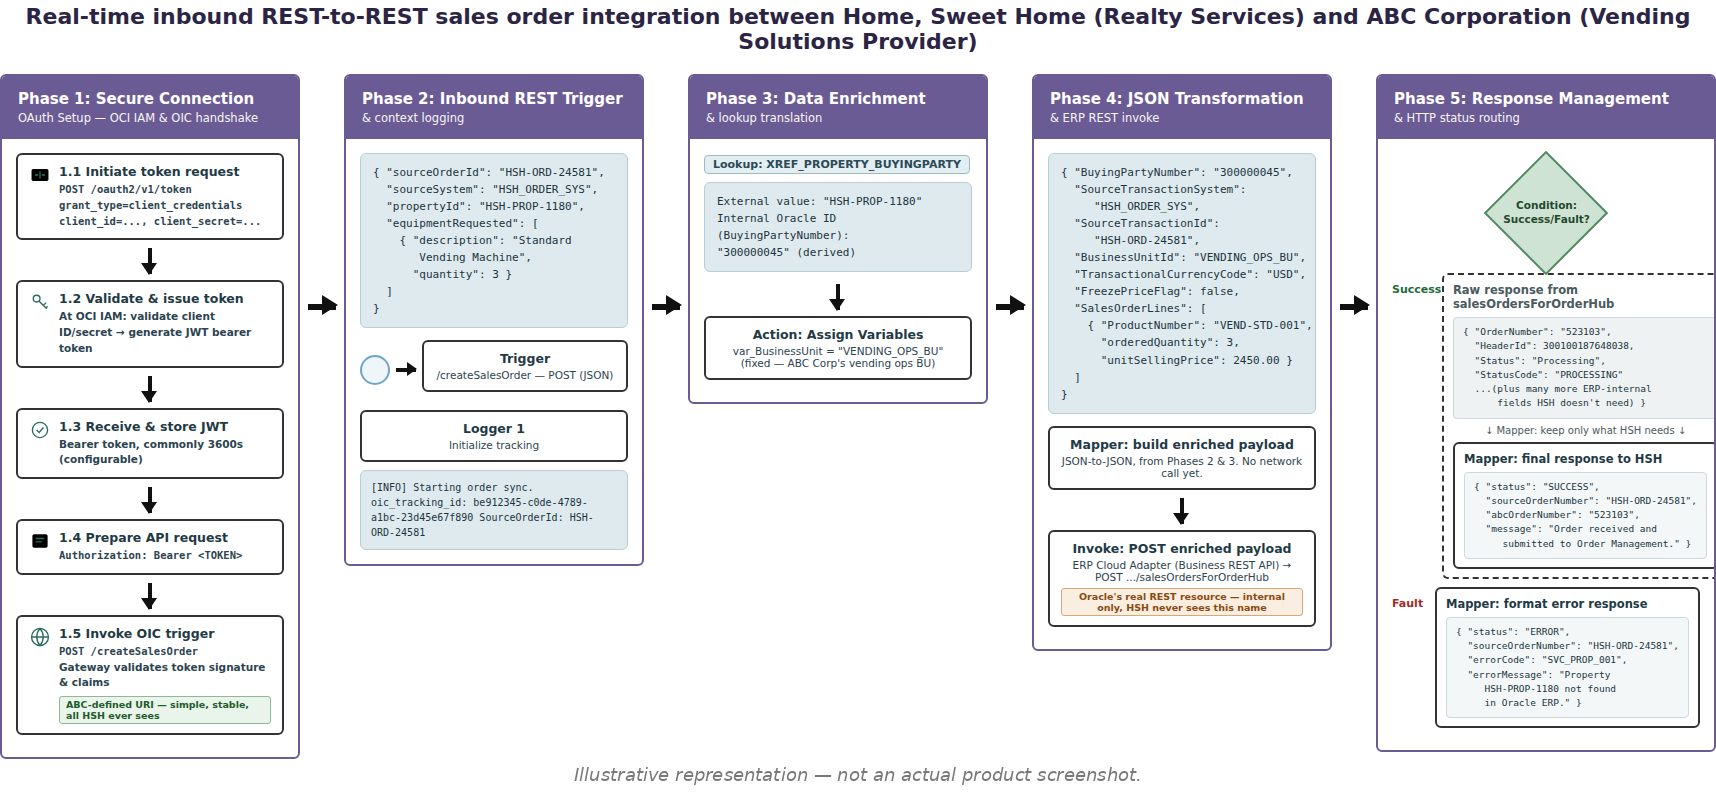
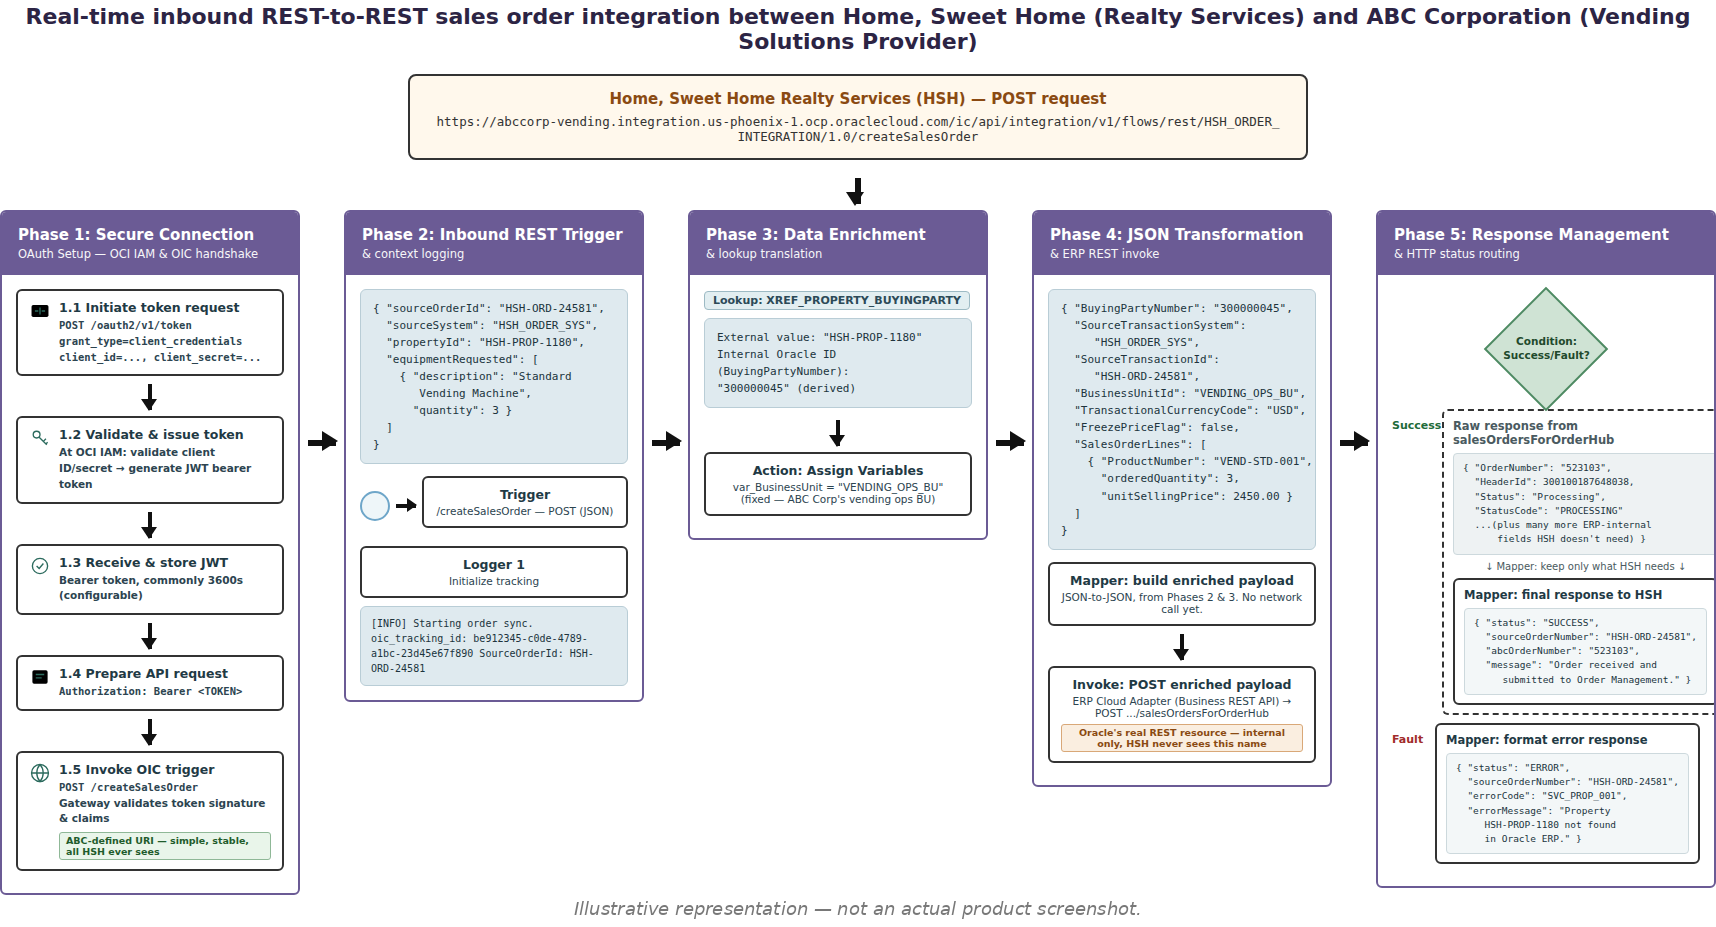
Add HSH trigger source box to the all-five-phases diagram
Scene 7 (the standalone combined diagram) previously showed all five
phases but never showed where the flow actually starts. Added a box
directly under the title showing Home, Sweet Home's POST call and the
realistic OIC trigger endpoint URL, with an arrow down into Phase 1 -
so the diagram now reads as a complete, self-contained story (HSH
posts in, ABC runs the five phases) without needing surrounding
chapter text for context. This matters most for the diagram's use as
a standalone LinkedIn carousel image.

URL structure verified against Oracle's documented pattern
(https://<instance>/ic/api/integration/v1/flows/rest/<INTEGRATION_NAME>/<VERSION>/<path>)
rather than invented. The five phases themselves are pixel-identical
to before - only the new header section was added.

Also updated the LinkedIn carousel PDF's matching slide.

diff --git a/oic-under-the-hood/index.html b/oic-under-the-hood/index.html
@@ -408,7 +408,7 @@
     <div class="panel">
       <h3><span class="num">7</span>All Five Phases, Left to Right</h3>
       <img src="Scene07.png" alt="The complete five-phase flow in one diagram: secure connection, inbound trigger and logging, data enrichment, JSON transformation and invoke, and response management, with the public ABC-defined URI and Oracle's internal REST resource both labeled." />
-      <div class="what-it-shows"><strong>What this shows:</strong> All five phases in one continuous diagram — the same ones just walked through individually — now as a single reference.</div>
+      <div class="what-it-shows"><strong>What this shows:</strong> All five phases in one continuous diagram, now anchored at the top by the actual trigger — HSH's POST call to the REST endpoint Harrison exposed — so the whole flow reads start to finish without needing the rest of the chapter for context.</div>
     </div>
 
     <!-- STEP 8 -->
